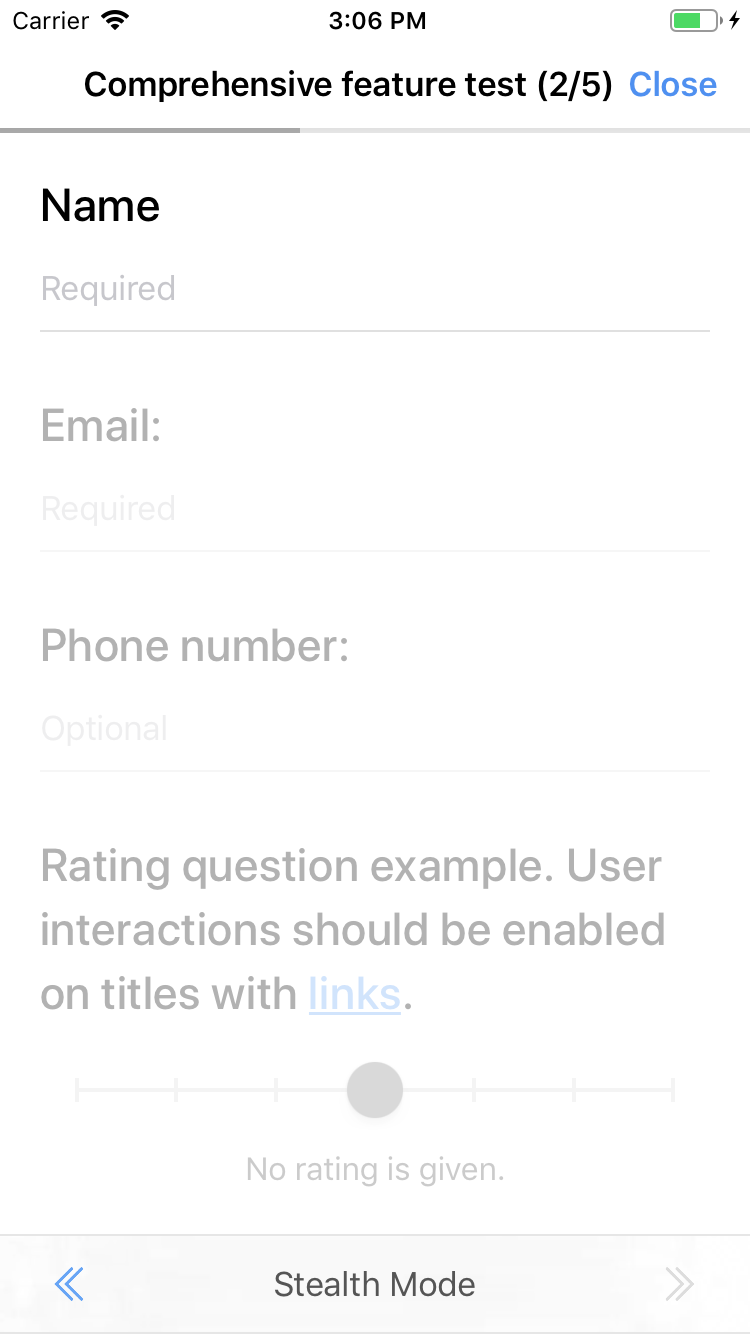
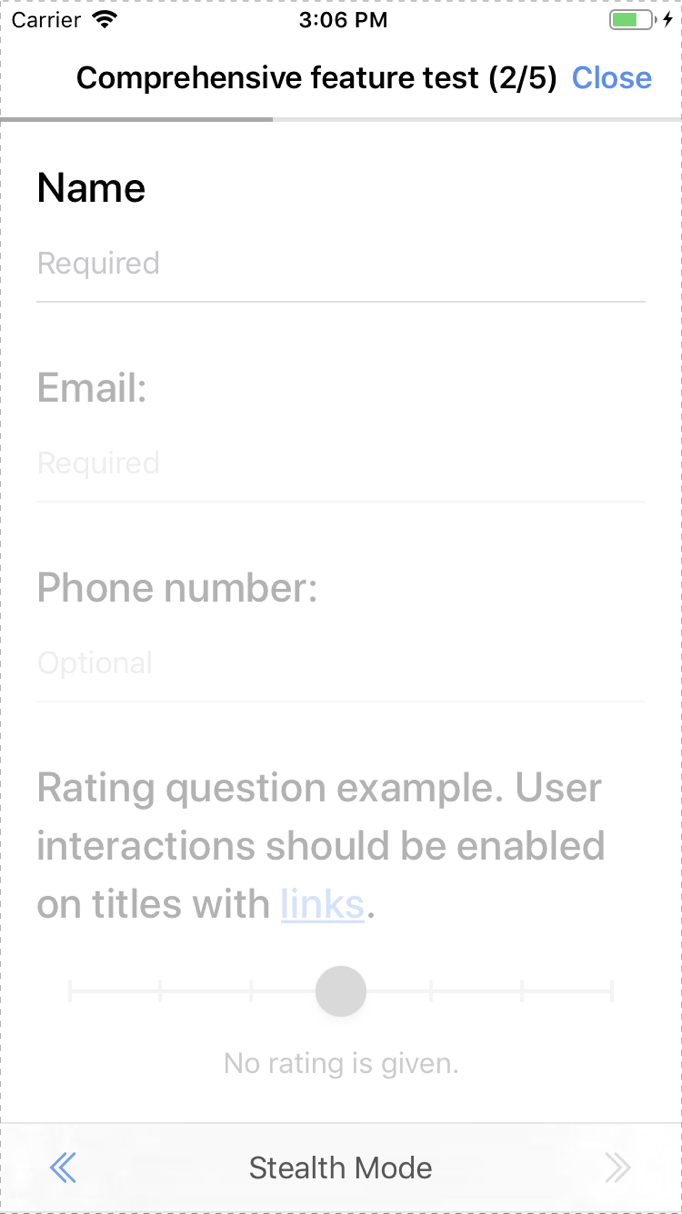
Added border to images with white background

diff --git a/README.md b/README.md
@@ -50,7 +50,9 @@ func surveyDidLoad(_ survey: Survey) {
 ## Environment variables
 - `allowMenuCollapse`: A boolean indicating whether choices that are expanded can be folded up again. Default is `false`.
 - `visibilityDifferentiation`: Whether the current item on a page of a survey has higher opacity than other elements. Default is `true`. <br>
-  <img src="Screenshots/autofocus.png" width="240">
+
+    <img src="Screenshots/autofocus.png" width="240">
+  
 - `mode`: A `Survey.Mode` property that is either `submission` or `stealth`. In submission mode, the survey maintains an active connection with the server (i.e. a session is created on open, and responses are uploaded). The other mode is **stealth mode**, where no data ever leaves the device throughout the survey-taking process, a bit analogous to incognito mode in a web browser (see image below). Default is `submission`.
 
     <img src="Screenshots/stealth_mode.png" width="240">
@@ -61,7 +63,7 @@ func surveyDidLoad(_ survey: Survey) {
 
     <img src="Screenshots/landing_page.png" width="240">
 
-- `showNavigationMenu`: A boolean indicating whether a navigation menu is shown at the bottom of the survey for flipping pages. *Note that you can always use swipe gestures to flip pages*. Default is `true`.
+- `showNavigationMenu`: A boolean indicating whether a navigation menu is shown at the bottom of the survey for flipping pages (see the bottom of most screenshot). *Note that you can always use swipe gestures to flip pages*. Default is `true`.
 - `allowJumping`: Whether the user can see a 'Go to Page' button in the navigation menu that allows them to jump to any unlocked page. Default is `false`. See screenshots below for details.
     
     <img src="Screenshots/gotopage.png" width="240"> <img src="Screenshots/gotopage_menu.png" width="240"> <img src="Screenshots/gotopage_warning.png" width="240">
